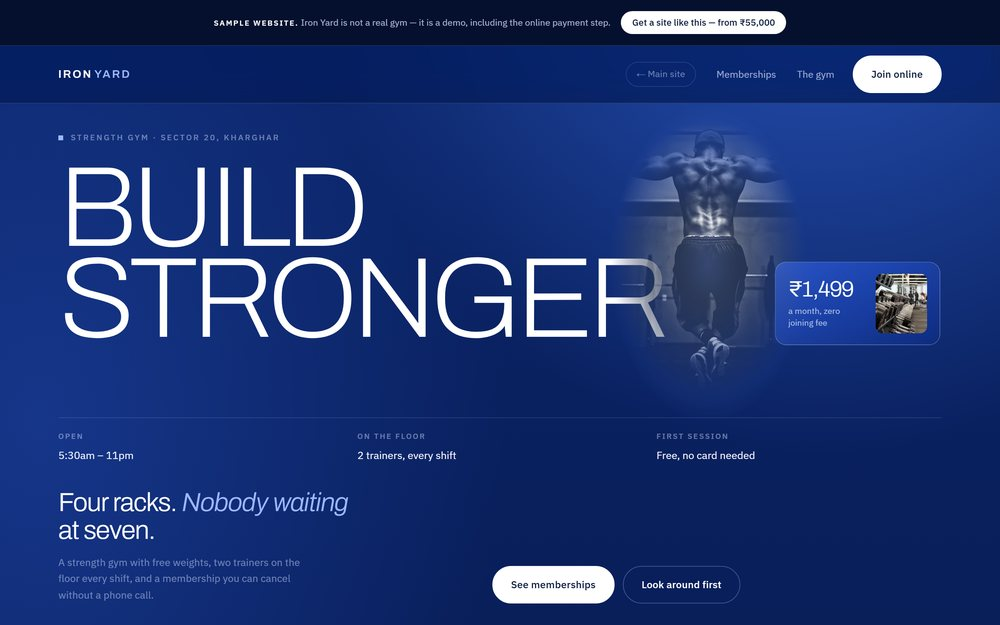
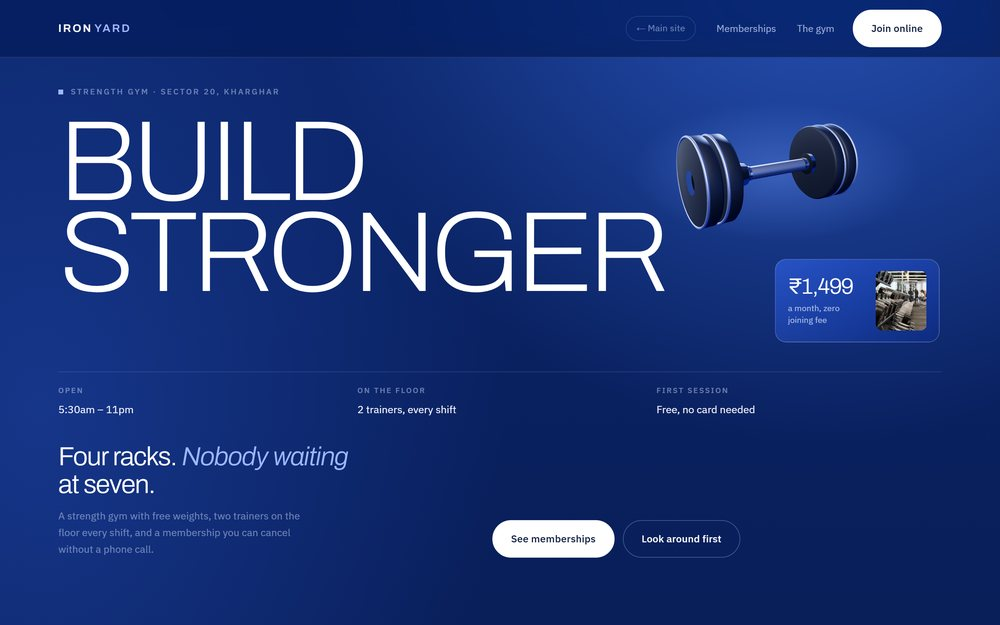
Re-shoot the Iron Yard share card and fix its alt text, which still promised a pull-up photo. The hub card is the first thing anyone sees of the sample, so it now shows the dumbbell the hero actually renders; the two alt descriptions say the same.
🤖 Generated with Codebuff

diff --git a/demos/index.html b/demos/index.html
@@ -168,7 +168,7 @@
         <span class="shot-cap"><b>Bright Minds Classes</b><span>₹35,000</span></span>
       </a>
       <a class="shot" href="gym/index.html">
-        <img loading="lazy" src="previews/template-gym.jpg" width="1000" height="625" alt="Iron Yard gym: a huge Build Stronger headline on deep blue, with a member doing a pull-up in front of it and a price card beside him.">
+        <img loading="lazy" src="previews/template-gym.jpg" width="1000" height="625" alt="Iron Yard gym: a huge Build Stronger headline on deep blue, with a 3D dumbbell floating above the price card.">
         <span class="shot-cap"><b>Iron Yard</b><span>₹55,000</span></span>
       </a>
       <a class="shot" href="atelier/index.html">

diff --git a/index.html b/index.html
@@ -230,7 +230,7 @@
 
         <div class="card" id="package-3">
           <a class="shot" href="demos/gym/index.html">
-            <img src="demos/previews/template-gym.jpg" alt="The Iron Yard sample: a deep-blue page with a giant Build Stronger headline over a pull-up photo, and membership plans below" width="1000" height="625" loading="lazy" decoding="async">
+            <img src="demos/previews/template-gym.jpg" alt="The Iron Yard sample: a deep-blue page with a giant Build Stronger headline, a 3D dumbbell floating over it and membership plans below" width="1000" height="625" loading="lazy" decoding="async">
             <span>Template · Iron Yard</span>
           </a>
           <p class="tag">Get paid online</p>
